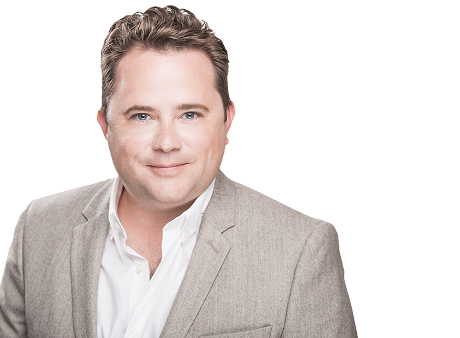
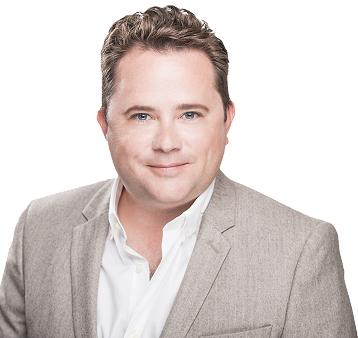
Authors section adapted

diff --git a/src/sass/blocks/author.scss b/src/sass/blocks/author.scss
@@ -3,7 +3,6 @@
 
 .author {
     margin-top: 90px;
-    padding-bottom: 300px;
     &__title {
         text-align: center;
         color: $dark;
@@ -21,9 +20,8 @@
         box-shadow: 0 27px 58px 0 rgba(25, 78, 96, 0.14);
     }
     &__descr {
-        position: absolute;
         margin-top: 88px;
-        left: 600px;
+        margin-left: 65px;
     }
     &__role {
         color: $ui-active;
@@ -81,7 +79,7 @@
             max-width: 996px;
         }
         &__descr {
-            left: 500px;
+            margin-left: 55px;
         }
     }
 }
@@ -89,7 +87,7 @@
 @media screen and (max-width: 1200px) {
     .author {
         &__descr {
-            left: 430px;
+            margin-left: 30px;
         }
         &__img {
             margin-left: 40px;
@@ -104,15 +102,14 @@
     .author {
         &__wrapper {
             flex-direction: column;
-            max-width: 600px;
+            max-width: 500px;
         }
         &__descr {
-            margin-top: 0;
-            position: static;
+            margin: 0 auto;
             padding: 20px 20px;
         }
         &__img {
-            margin-left: 20px;
+            margin: 0 auto;
         }
     }
 }
